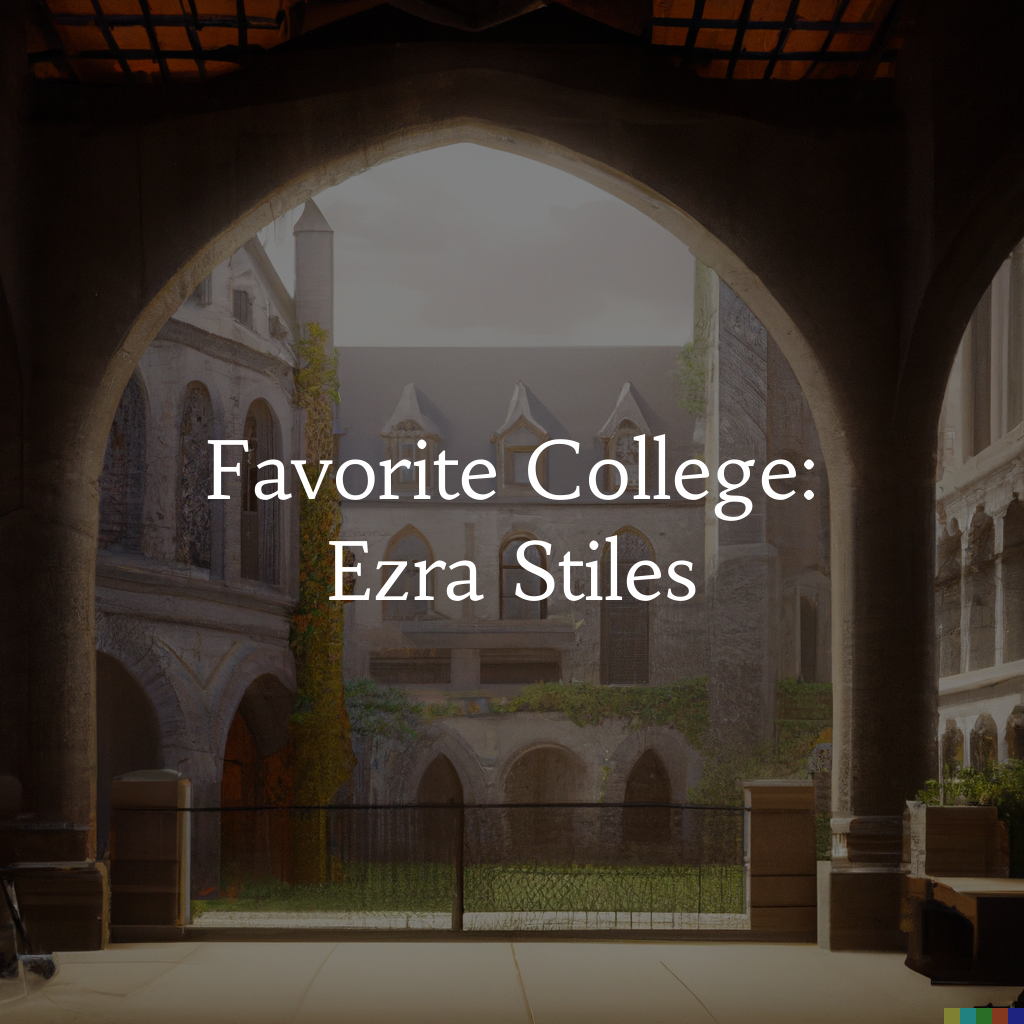
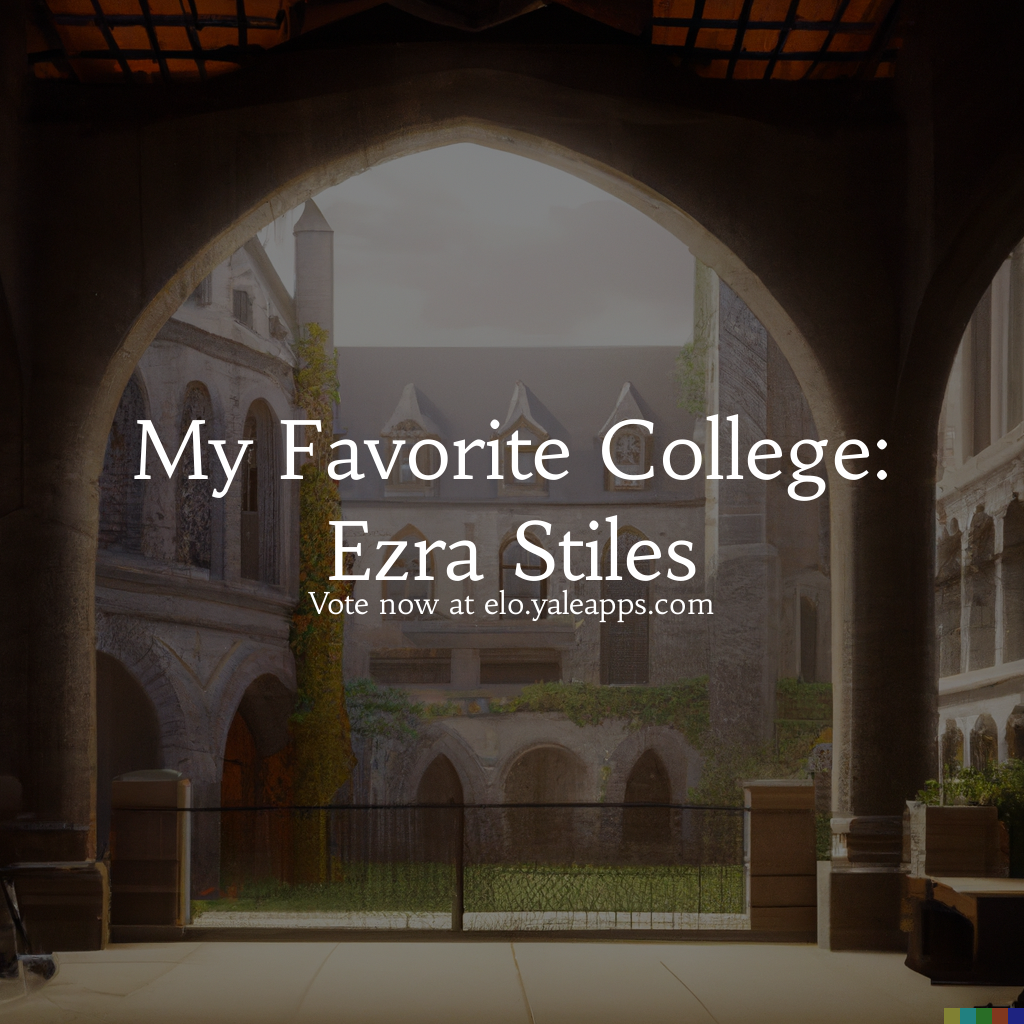
feat: My Favorite College:

Changed region(s): [[0.125, 0.4062, 0.875, 0.625]]

diff --git a/static/generateCards.py b/static/generateCards.py
@@ -1,14 +1,15 @@
 from PIL import Image, ImageDraw, ImageFont
 import os
 
-# set the path of the folder containing square pictures
+# Set the path of the folder containing square pictures
 folder_path = "/Users/braden/Code/elo-yale/static/Colleges"
 
-# set the opacity of the black filter
+# Set the opacity of the black filter
 opacity = 0.5
 
 # Set font and size for the text
-font = ImageFont.truetype("/Users/braden/Code/elo-yale/static/fonts/Habibi-Regular.ttf", size=80)
+font_title = ImageFont.truetype("/Users/braden/Code/elo-yale/static/fonts/Habibi-Regular.ttf", size=80)
+font_subtitle = ImageFont.truetype("/Users/braden/Code/elo-yale/static/fonts/Habibi-Regular.ttf", size=30)
 
 # Iterate through all files in the folder
 for filename in os.listdir(folder_path):
@@ -28,14 +29,20 @@ for filename in os.listdir(folder_path):
         filename_without_png = os.path.splitext(filename)[0]
         line1 = "My Favorite College:"
         line2 = filename_without_png
-        text_width1, text_height1 = draw.textsize(line1, font=font)
-        text_width2, text_height2 = draw.textsize(line2, font=font)
+        line3 = "Vote now at elo.yaleapps.com"
+        text_width1, text_height1 = draw.textsize(line1, font=font_title)
+        text_width2, text_height2 = draw.textsize(line2, font=font_title)
+        text_width3, text_height3 = draw.textsize(line3, font=font_subtitle)
         x1 = (image_copy.width - text_width1) / 2
         x2 = (image_copy.width - text_width2) / 2
-        y = (image_copy.height - text_height1 - text_height2) / 2
-        draw.text((x1, y), line1, font=font, fill=(255, 255, 255, 255))
-        draw.text((x2, y+text_height1), line2, font=font, fill=(255, 255, 255, 255))
+        x3 = (image_copy.width - text_width3) / 2
+        y1 = (image_copy.height - text_height1 - text_height2 - text_height3) / 2
+        y2 = y1 + text_height1
+        y3 = y2 + text_height2
+        draw.text((x1, y1), line1, font=font_title, fill=(255, 255, 255, 255))
+        draw.text((x2, y2), line2, font=font_title, fill=(255, 255, 255, 255))
+        draw.text((x3, y3), line3, font=font_subtitle, fill=(255, 255, 255, 255))
 
         # Save the modified image with a new filename
         new_filename = os.path.splitext(filename)[0] + ".png"
-        image_copy.save(os.path.join(f"{folder_path}/Loved/", new_filename)) 
+        image_copy.save(os.path.join(f"{folder_path}/Loved/", new_filename))
